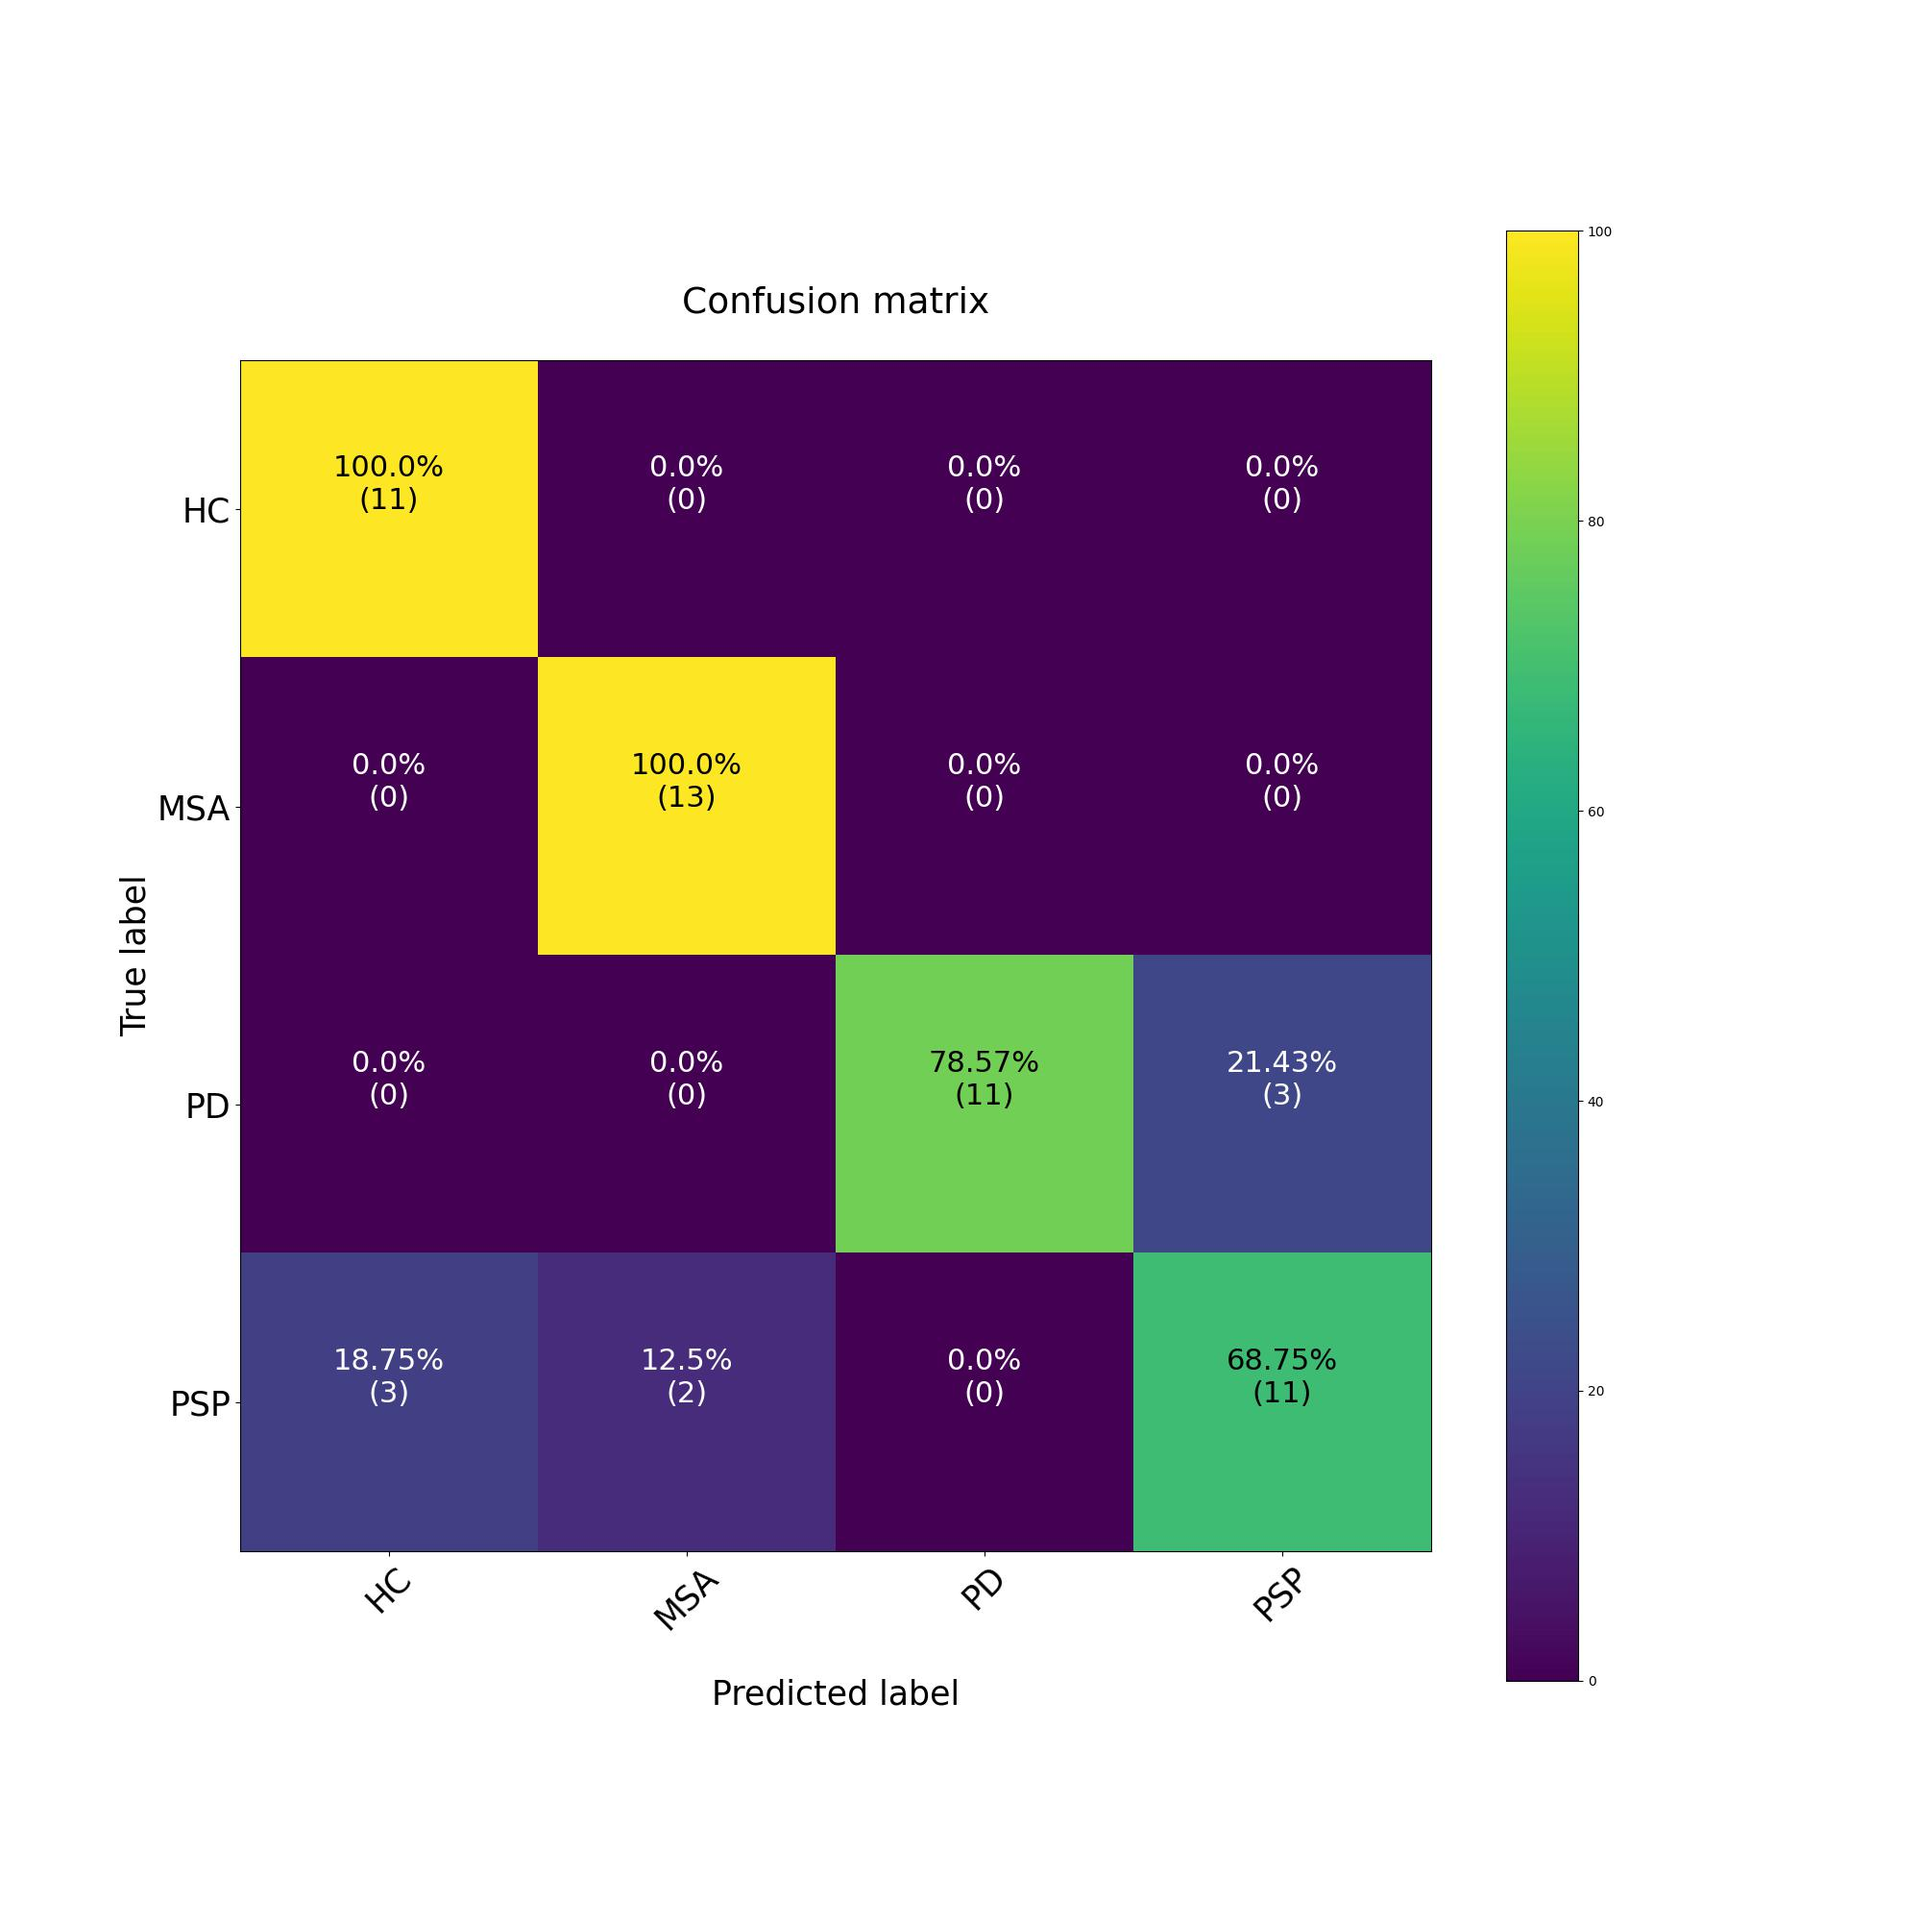
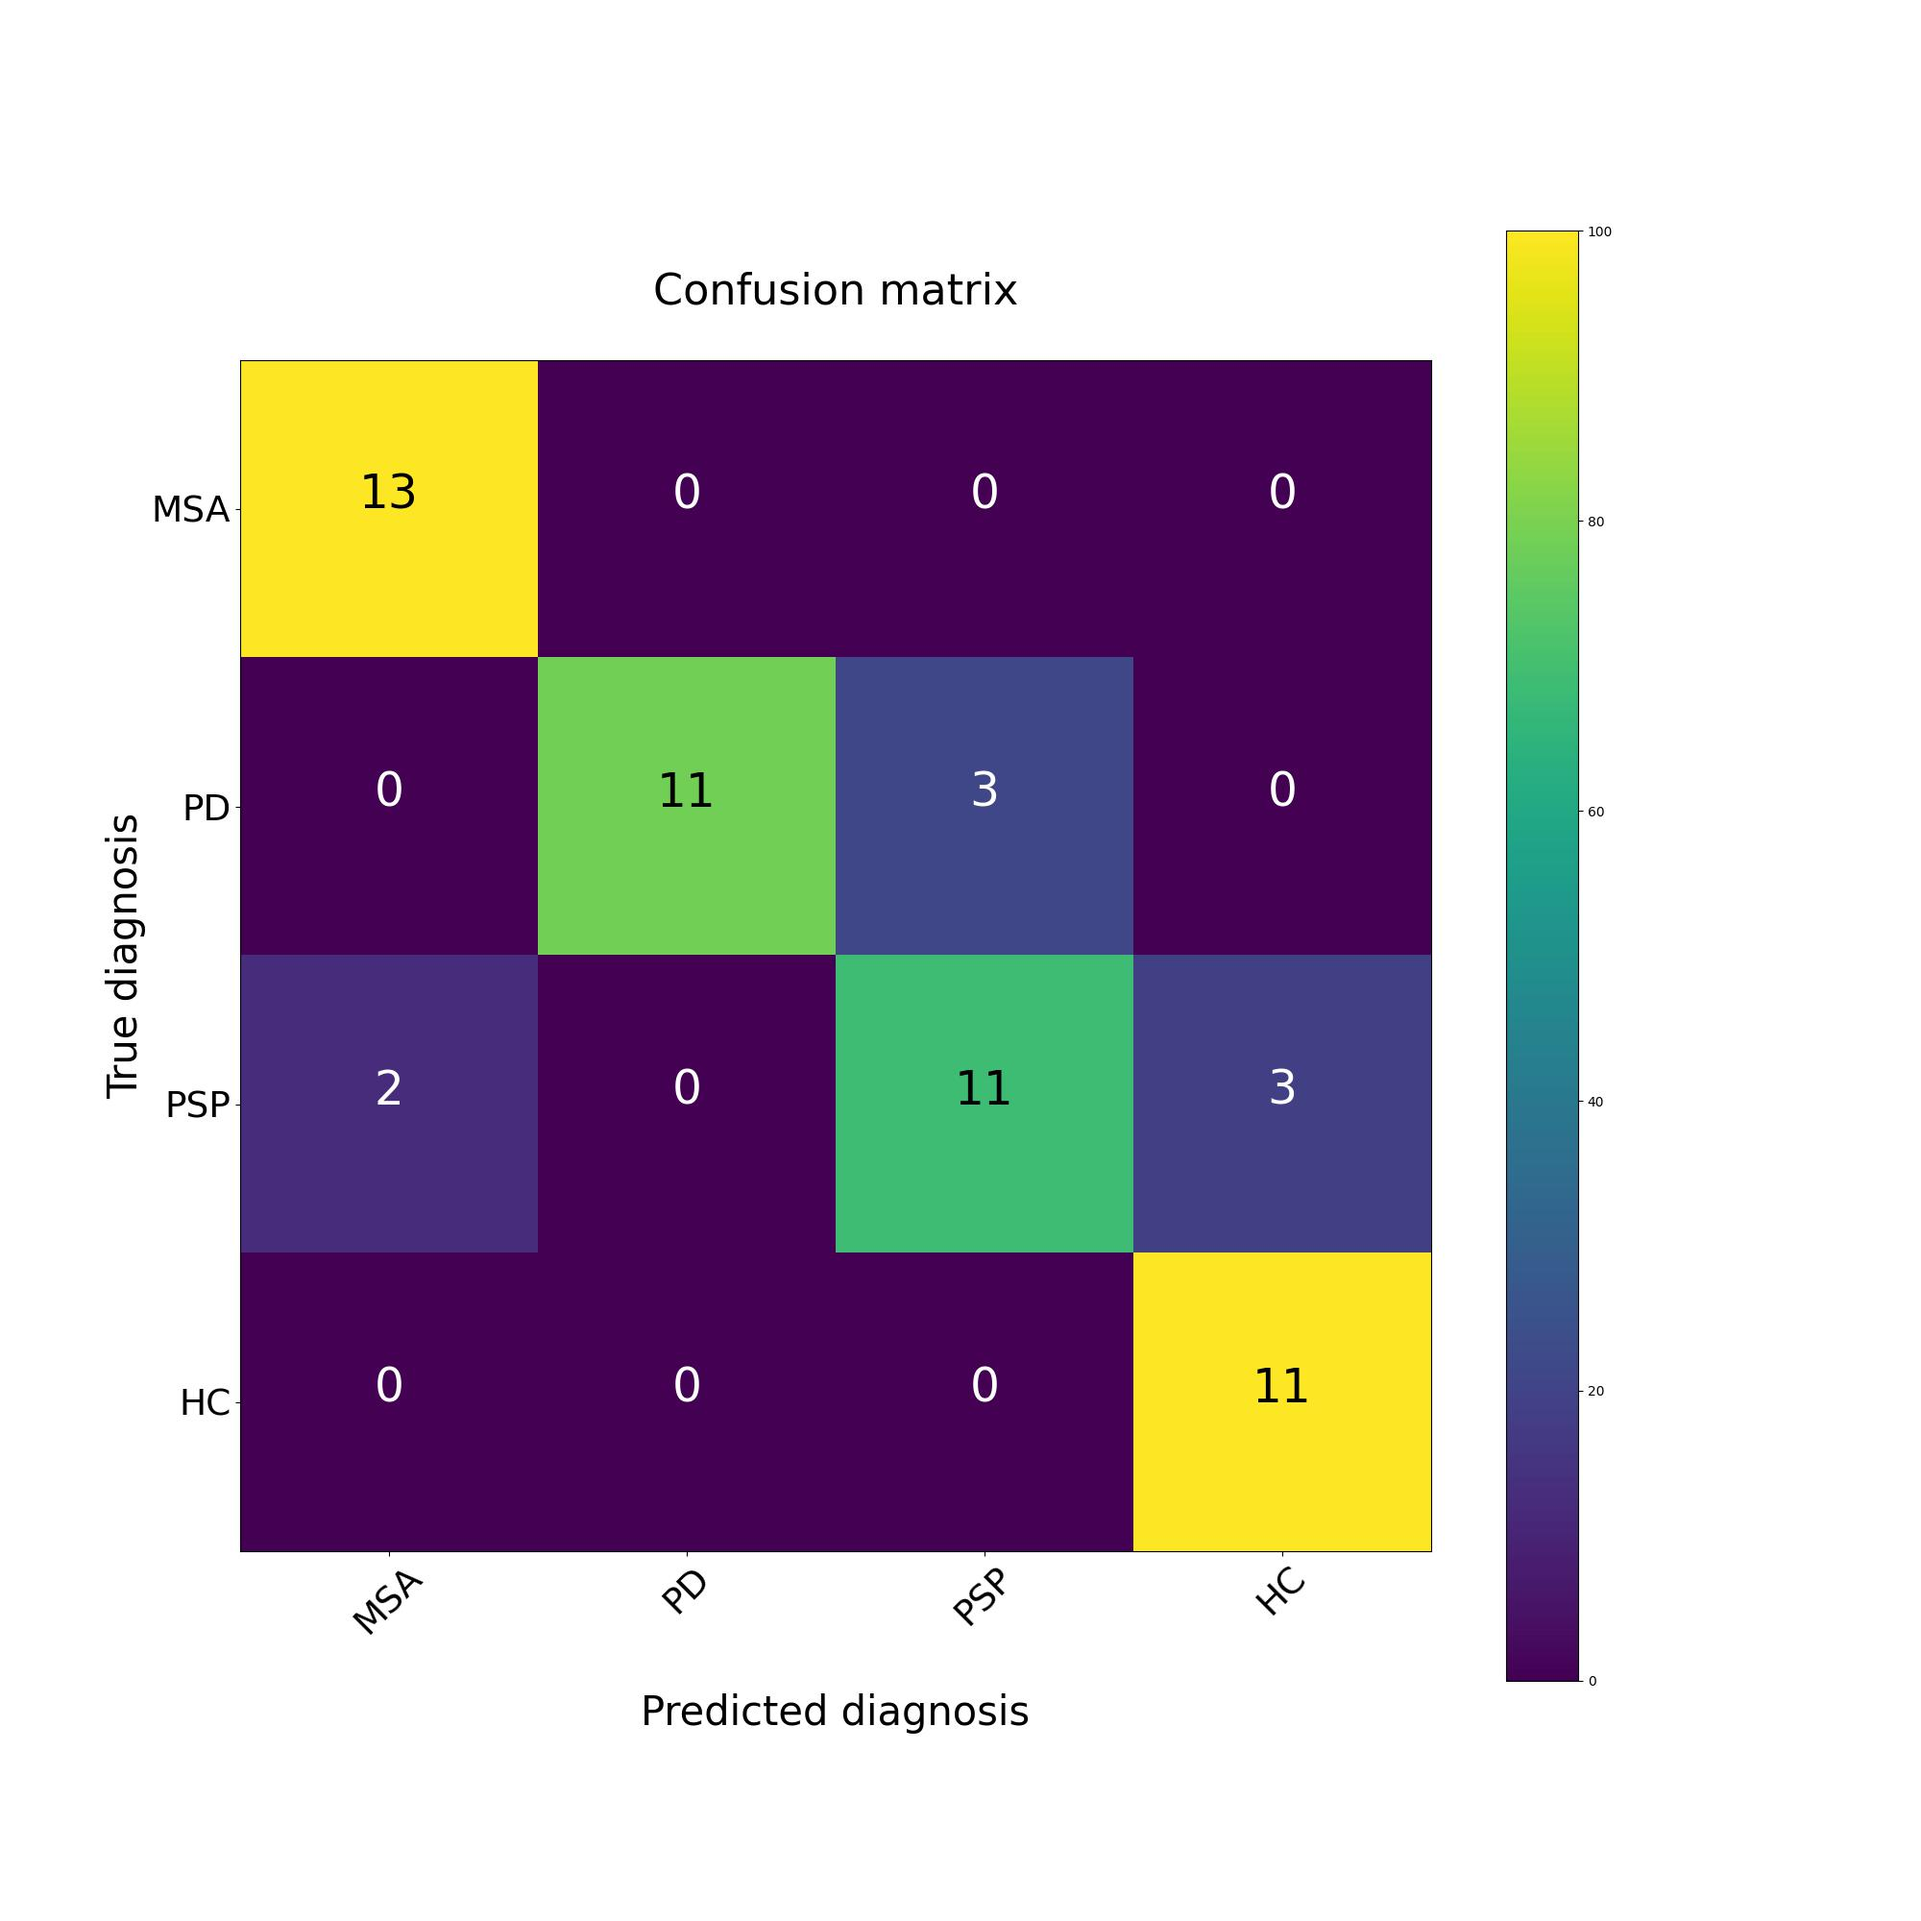
minor fix

diff --git a/ml/ArtefactEvaluator.py b/ml/ArtefactEvaluator.py
@@ -28,22 +28,23 @@ def plotConfMat(cm, cmPerc, filePathToSavePlot, showPlots=0):
     plt.colorbar()
     N_classes = len(cm)
 
-    classes = ['HC', 'MSA', 'PD', 'PSP']
+    classes = ['MSA', 'PD', 'PSP', 'HC']
 
     for i, j in product(range(N_classes), range(N_classes)):
-        plt.text(i, j, '{}%\n({})'.format(round(cmPerc[j, i], 2), cm[j, i], 'd'),
+        plt.text(i, j,
+                 cm[j, i],
                  horizontalalignment="center",
                  color='white' if cmPerc[j, i] < 60 else "black",
-                 size=22)
+                 size=35)
     tick_marks = np.arange(N_classes)
 
-    plt.xticks(tick_marks, classes, rotation=45, size=25)
-    plt.yticks(tick_marks, classes, size=25)
-    plt.ylabel('True label', size=25)
-    plt.xlabel('\nPredicted label', size=25)
+    plt.xticks(tick_marks, classes, rotation=45, size=27)
+    plt.yticks(tick_marks, classes, size=27)
+    plt.ylabel('True diagnosis', size=30)
+    plt.xlabel('\nPredicted diagnosis', size=30)
     #  plt.style.use(['tableau-colorblind10'])
     #  plt.rcparams.image.cmap'] = 'viridis'
-    plt.title('Confusion matrix\n', size=27)
+    plt.title('Confusion matrix\n', size=32)
     # fig1 = plt.gcf()
     plt.savefig(filePathToSavePlot, dpi=100)
     if showPlots:
@@ -73,7 +74,8 @@ def evaluate(artefacts, selectors, test, evaluator):
         actual = selectors_result[2]
         pred = selectors_result[1]
         from sklearn.metrics import confusion_matrix
-        confMat = confusion_matrix(actual, pred)
+        labels = ['MSA', 'PD', 'PSP', 'CTRL']
+        confMat = confusion_matrix(actual, pred, labels=labels)
         sumaPoRedovima = confMat.astype('float').sum(axis=1)
         confMatPerc = [gore/dole for gore, dole in zip(confMat, sumaPoRedovima)]
         confMatPerc = np.matrix(confMatPerc)*100   

diff --git a/ml/MainML.py b/ml/MainML.py
@@ -21,7 +21,15 @@ def main():
     selectors = ArtefactSelectorGenerator.select(artefacts, selection_type='SEQUENCE',
                                                  start_index=63, end_index=64,
                                                  initial_selectors=[0b111111])
-
+    
+    hh = {}
+    for a in artefacts:
+        hh[a.result] = hh.get(a.result, 0)
+        hh[a.result]+=1
+    
+    print(hh)
+        
+        
     print(selectors)
 
     test = ArtefactTestGenerator.generate()

diff --git a/ml/ArtefactExtractor.py b/ml/ArtefactExtractor.py
@@ -13,8 +13,8 @@ def extract(measurements):
         artefacts = extract_artefacts(measurement)
         if artefacts is not None: 
             results.append(artefacts)
-        else:
-            print( measurement.diagnosis + measurement.initials + measurement.date)
+        # else:
+        #     print( measurement.diagnosis + measurement.initials + measurement.date)
     return results
 
 
